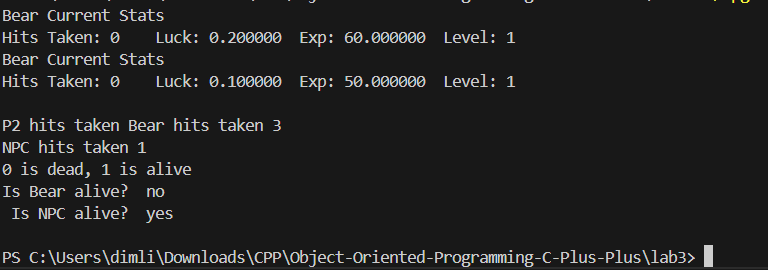
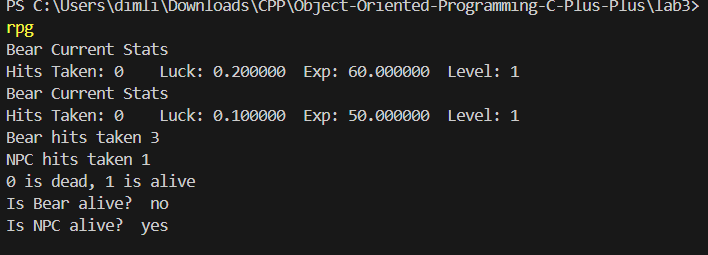
Fixed a line

diff --git a/Lab3/main.cpp b/Lab3/main.cpp
@@ -19,7 +19,7 @@ int main()
 p1.setHitsTaken(3);
 p2.setHitsTaken(1);
 
-cout << "\nP2 hits taken ";
+
 // PRINT out the hits_taken
 cout << p1.getName() << " hits taken " << p1.getHitsTaken() << "\n";
 
@@ -31,9 +31,9 @@ cout << "0 is dead, 1 is alive\n";
 cout << "Is " << p1.getName() << " alive? ";
 if (p1.isAlive() ==0)
 {
-     cout << " no\n "; }
+     cout << " no\n"; }
 else {
- cout << " yes\n ";
+ cout << " yes\n";
 }
 
 
